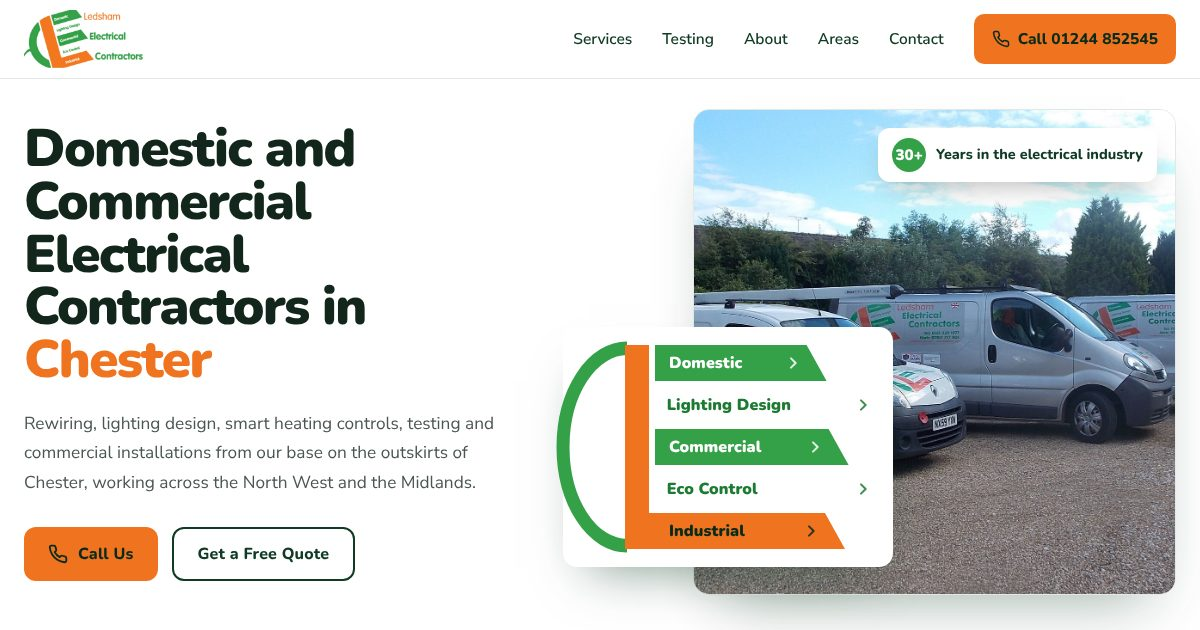
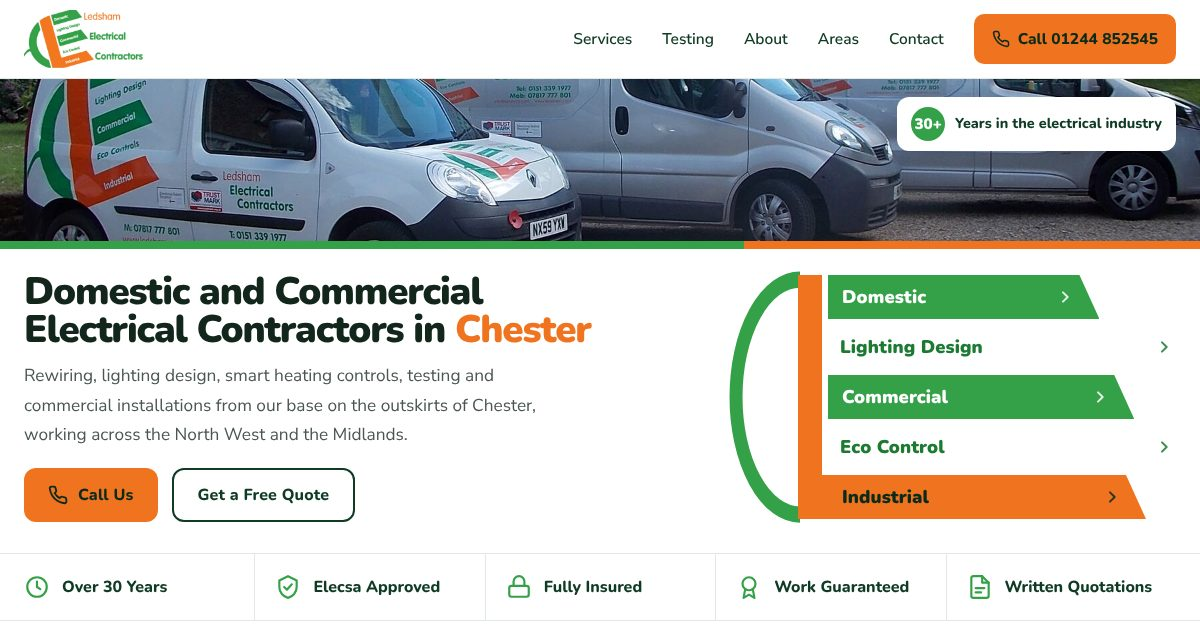
Ledsham Electrical A: vans photo full width across the top of the hero, service ladder moved to the right of the hero text

diff --git a/ledsham-electrical/index.html b/ledsham-electrical/index.html
@@ -107,8 +107,13 @@ html.ld .hero *{animation-play-state:paused!important}
 
 /* hero */
 .hero{display:flex;flex-direction:column;background:#fff}
-.hero-grid{display:grid;grid-template-columns:1fr 1.25fr;gap:48px;align-items:center;height:clamp(540px,calc(100vh - 78px),760px);padding-top:30px;padding-bottom:36px}
-.hero-copy h1{font-size:clamp(2.5rem,4.4vw,4.1rem);letter-spacing:-.03em;line-height:1}
+.hero-band{position:relative;height:clamp(220px,38vh,420px);overflow:hidden;background:var(--stone)}
+.hero-band img{width:100%;height:100%;object-fit:cover;object-position:45% 58%;transform:scale(1.04);animation:bandIn 1.2s .1s cubic-bezier(.2,.8,.2,1) forwards}
+@keyframes bandIn{to{transform:none}}
+.hero-band::after{content:"";position:absolute;left:0;right:0;bottom:0;height:8px;background:linear-gradient(90deg,var(--green) 0 62%,var(--orange) 62% 100%)}
+.hero-band-in{position:absolute;inset:0;margin:0 auto;max-width:1240px}
+.hero-grid{display:grid;grid-template-columns:1.35fr 1fr;gap:56px;align-items:center;padding-top:34px;padding-bottom:30px}
+.hero-copy h1{font-size:clamp(2.4rem,3.7vw,3.6rem);letter-spacing:-.03em;line-height:1}
 .hero-copy h1 .accent{color:var(--orange)}
 .lede{font-size:1.08rem;margin:22px 0 30px;max-width:520px}
 .hero-ctas{display:flex;gap:14px;flex-wrap:wrap}
@@ -118,20 +123,20 @@ html.ld .hero *{animation-play-state:paused!important}
 .hero-copy>*:nth-child(3){animation-delay:.4s}
 @keyframes fadeUp{from{opacity:0;transform:translateY(24px)}to{opacity:1;transform:none}}
 
-.hero-vis{position:relative;height:100%;min-height:0;display:flex;opacity:0;animation:fadeUp .8s .35s ease forwards}
+.hero-vis{position:relative;display:flex;justify-content:flex-end;opacity:0;animation:fadeUp .8s .35s ease forwards}
 .hero-photo{position:relative;flex:1;min-height:0;border-radius:var(--r);overflow:hidden;border:1px solid var(--line);box-shadow:0 30px 60px -30px rgba(15,58,36,.45);margin-left:130px}
 .hero-photo img{width:100%;height:100%;object-fit:cover;object-position:35% 62%}
-.hero-badge{position:absolute;top:18px;right:18px;background:#fff;border-radius:12px;padding:10px 14px;display:flex;gap:10px;align-items:center;box-shadow:0 12px 30px -12px rgba(0,0,0,.35);font:800 .9rem/1.2 Nunito,sans-serif;color:var(--pine)}
+.hero-badge{position:absolute;top:18px;right:24px;background:#fff;border-radius:12px;padding:10px 14px;display:flex;gap:10px;align-items:center;box-shadow:0 12px 30px -12px rgba(0,0,0,.35);font:800 .9rem/1.2 Nunito,sans-serif;color:var(--pine)}
 .hero-badge b{display:grid;place-items:center;width:34px;height:34px;border-radius:50%;background:var(--green);color:#fff;font-size:.95rem}
 
 /* the service ladder: their logo set as a live menu */
-.ladder{position:absolute;z-index:2;left:0;bottom:28px;width:330px;background:#fff;border-radius:14px;padding:18px 18px 18px 0;box-shadow:0 26px 50px -26px rgba(15,58,36,.55);display:grid;grid-template-columns:62px 1fr;align-items:stretch}
+.ladder{position:relative;width:100%;max-width:440px;background:#fff;border-radius:14px;padding:4px 0;display:grid;grid-template-columns:62px 1fr;align-items:stretch}
 .lad-arc{position:relative}
 .lad-arc svg{position:absolute;right:-8px;top:50%;width:76px;height:calc(100% + 6px);transform:translateY(-50%);overflow:visible}
 .lad-arc path{fill:none;stroke:var(--green);stroke-width:13;stroke-linecap:butt;stroke-dasharray:340;stroke-dashoffset:340;animation:draw .8s .55s cubic-bezier(.4,0,.2,1) forwards}
 .lad-body{position:relative;padding-left:30px;display:grid;gap:6px}
 .lad-up{position:absolute;left:0;top:0;bottom:0;width:24px;background:var(--orange);transform-origin:bottom;transform:scaleY(0);animation:grow .45s .7s cubic-bezier(.2,.8,.2,1) forwards}
-.rung{position:relative;display:flex;align-items:center;height:36px;font:900 1rem/1 Nunito,sans-serif;letter-spacing:.005em;transition:transform .2s}
+.rung{position:relative;display:flex;align-items:center;height:44px;font:900 1.15rem/1 Nunito,sans-serif;letter-spacing:.005em;transition:transform .2s}
 .rung:hover{transform:translateX(4px)}
 .rung.band,.rung.lfoot{color:#fff;padding-left:14px;overflow:hidden;clip-path:polygon(0 0,calc(100% - 20px) 0,100% 100%,0 100%);transform-origin:left;transform:scaleX(0);animation:slide .45s cubic-bezier(.2,.8,.2,1) forwards}
 .rung.band{background:var(--green)}
@@ -299,11 +304,16 @@ html.ld .hero *{animation-play-state:paused!important}
 .reveal{opacity:0;transform:translateY(30px);transition:opacity .7s ease,transform .7s ease}
 .reveal.in{opacity:1;transform:none}
 
+@media (min-width:881px) and (max-height:760px){
+  .hero-band{height:27vh}
+  .hero-grid{padding-top:22px;padding-bottom:18px}
+  .hero-copy h1{font-size:clamp(2.2rem,3.2vw,3rem)}
+  .lede{margin:12px 0 18px}
+}
 @media (max-width:1080px){
   .svc-grid{grid-template-columns:repeat(2,1fr)}
   .trust-in{grid-template-columns:repeat(3,1fr)}
   .trust-item:nth-child(4){border-left:0;padding-left:0}
-  .hero-photo{margin-left:90px}
 }
 @media (max-width:880px){
   .nav-in{height:66px}
@@ -312,14 +322,16 @@ html.ld .hero *{animation-play-state:paused!important}
   .nav-links.is-open{transform:scaleY(1);opacity:1;pointer-events:auto}
   .nav-links a{padding:16px 0;border-bottom:1px solid var(--line);font-size:1.05rem}
   .nav-links a.nav-cta{margin-top:16px;justify-content:center;padding:16px;border-bottom:0}
-  .hero-grid{grid-template-columns:1fr;height:auto;gap:22px;padding-top:24px;padding-bottom:18px}
+  .hero-band{height:auto;aspect-ratio:16/9}
+  .hero-badge{display:none}
+  .hero-grid{grid-template-columns:minmax(0,1fr);gap:22px;padding-top:24px;padding-bottom:18px}
   .hero-copy h1{font-size:clamp(2.15rem,9.6vw,3rem)}
   .lede{font-size:.98rem;margin:14px 0 20px;line-height:1.6}
   .hero-ctas{flex-wrap:nowrap;gap:10px}
   .hero-ctas .btn{flex:1;padding:0 12px;font-size:.95rem;min-height:52px}
   .hero-vis{height:auto;flex-direction:column;gap:18px}
-  .ladder{position:relative;left:auto;bottom:auto;width:100%;padding:4px 0;box-shadow:none;border-radius:0;grid-template-columns:54px 1fr}
-  .hero-photo{margin-left:0;flex:none;aspect-ratio:16/11}
+  .ladder{max-width:none;padding:4px 0;border-radius:0;grid-template-columns:54px 1fr}
+  .rung{height:36px;font-size:1rem}
   .hero-badge{display:none}
   .trust{padding-top:0;padding-bottom:8px}
   .trust-in{grid-template-columns:1fr;border-top:0}
@@ -380,6 +392,10 @@ html.ld .hero *{animation-play-state:paused!important}
 
 <main>
 <section class="hero">
+  <div class="hero-band">
+    <img src="hero-vans.jpg" alt="Three Ledsham Electrical Contractors vans in their green and orange livery" width="1800" height="1125" fetchpriority="high">
+    <div class="wrap hero-band-in"><div class="hero-badge"><b>30+</b>Years in the electrical industry</div></div>
+  </div>
   <div class="hero-grid wrap">
     <div class="hero-copy">
       <h1>Domestic and Commercial Electrical Contractors in <span class="accent">Chester</span></h1>
@@ -401,10 +417,6 @@ html.ld .hero *{animation-play-state:paused!important}
           <a class="rung lfoot" href="#svc-commercial">Industrial<i class="spark"></i><svg class="arr" viewBox="0 0 24 24" fill="none" stroke="currentColor" stroke-width="3" stroke-linecap="round" stroke-linejoin="round"><path d="M9 5l7 7-7 7"/></svg></a>
         </div>
       </nav>
-      <div class="hero-photo">
-        <img src="hero-vans.jpg" alt="Three Ledsham Electrical Contractors vans in their green and orange livery" width="1800" height="1125" fetchpriority="high">
-        <div class="hero-badge"><b>30+</b>Years in the electrical industry</div>
-      </div>
     </div>
   </div>
 </section>
